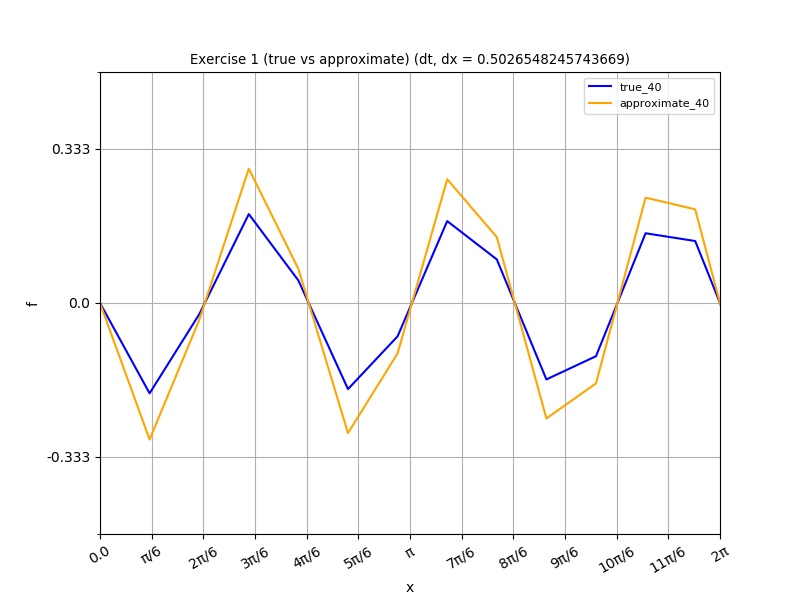
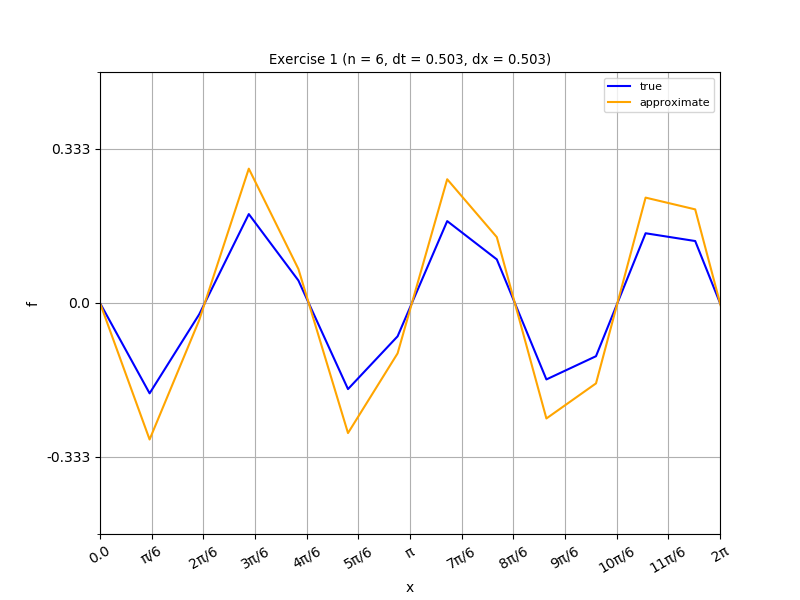
add lecture8 coding

Changed region(s): [[0.25, 0.09, 0.9062, 0.21]]

diff --git a/src/lecture8.py b/src/lecture8.py
@@ -175,7 +175,7 @@ if __name__ == '__main__':
     pa = plt.plot(x, f[int(0.4 * t_i)], label='approximate', color='orange')
     plt.xlim(0, L)
     plt.ylim(-3 * A / c / n, 3 * A / c / n)
-    plt.title(f"Exercise 1 (true vs approximate) (dt = {round(dt1, 3)}, dx = {round(dx, 3)})")
+    plt.title(f"Exercise 1 (n = {n}, dt = {round(dt1, 3)}, dx = {round(dx, 3)})")
     plt.legend(loc='upper right')
     a, b = xx(0)
     plt.xticks(a, b, rotation=30)
@@ -195,7 +195,7 @@ if __name__ == '__main__':
     qa = plt.plot(x, g[int(0.4 * t_i)][:-1], label='approximate', color='orange')
     plt.xlim(0, L)
     plt.ylim(-5 * A / c / (2 * n - 1), 5 * A / c / (2 * n - 1))
-    plt.title(f"Exercise 2 (true vs approximate) (dt = {round(dt1, 3)}, dx = {round(dx, 3)}))")
+    plt.title(f"Exercise 2 (n = {n} dt = {round(dt1, 3)}, dx = {round(dx, 3)}))")
     plt.legend(loc='upper right')
     a, b = xx(1)
     plt.xticks(a, b, rotation=30)
